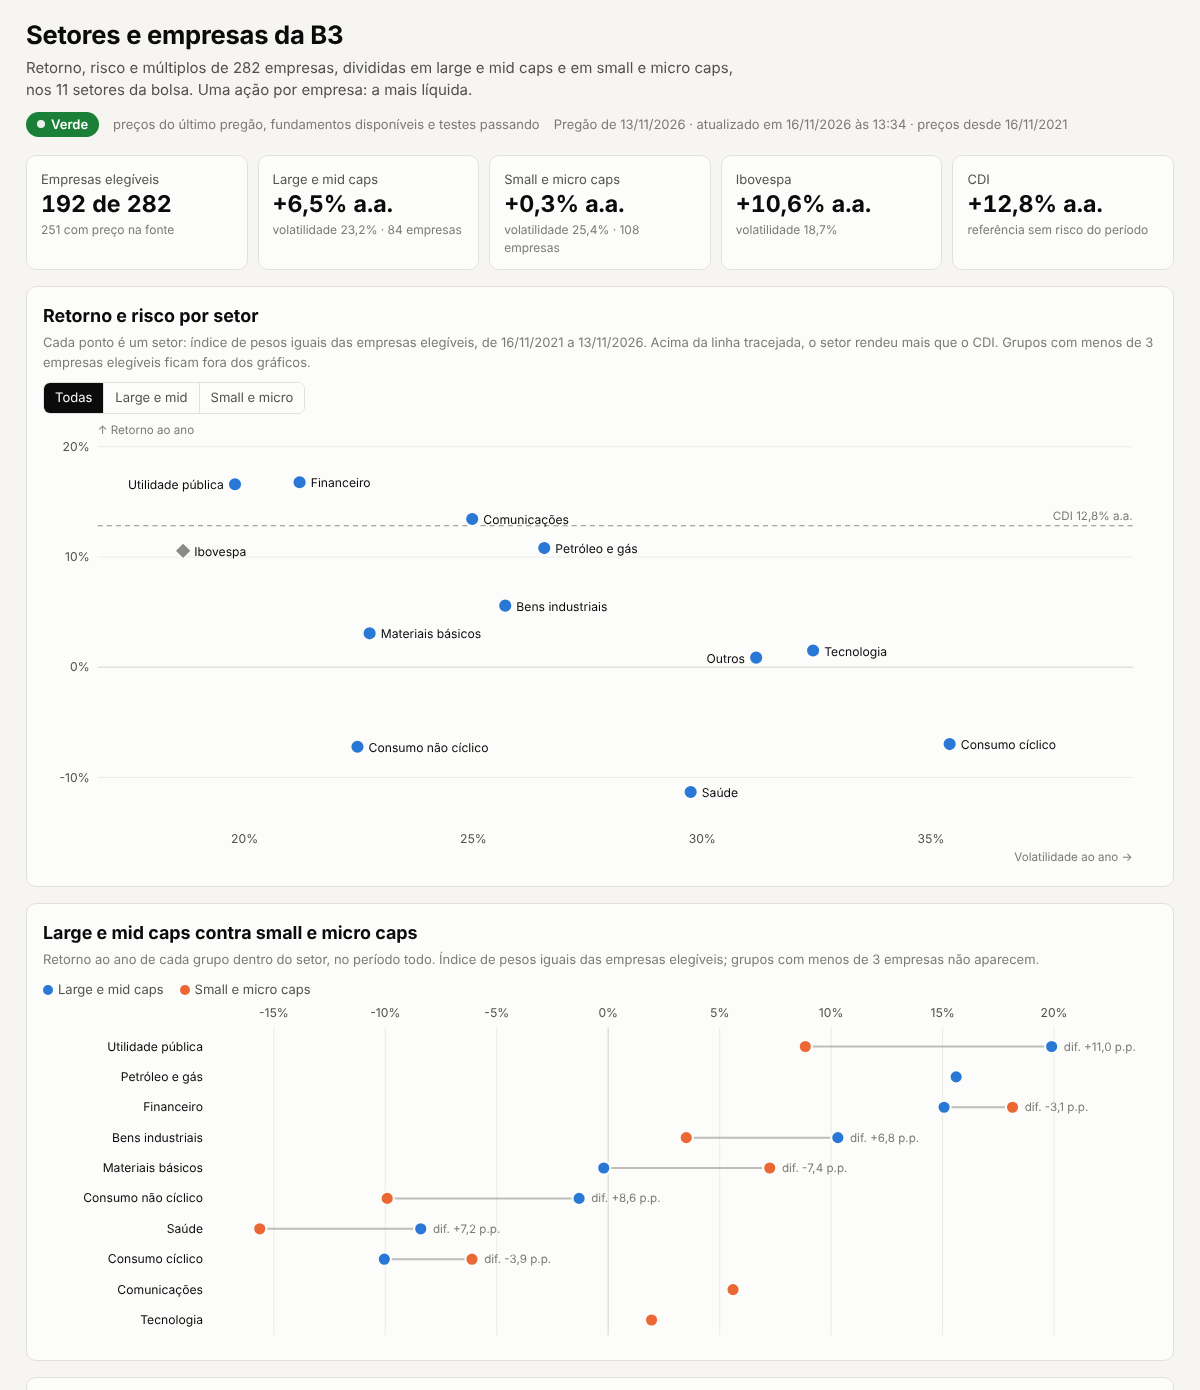
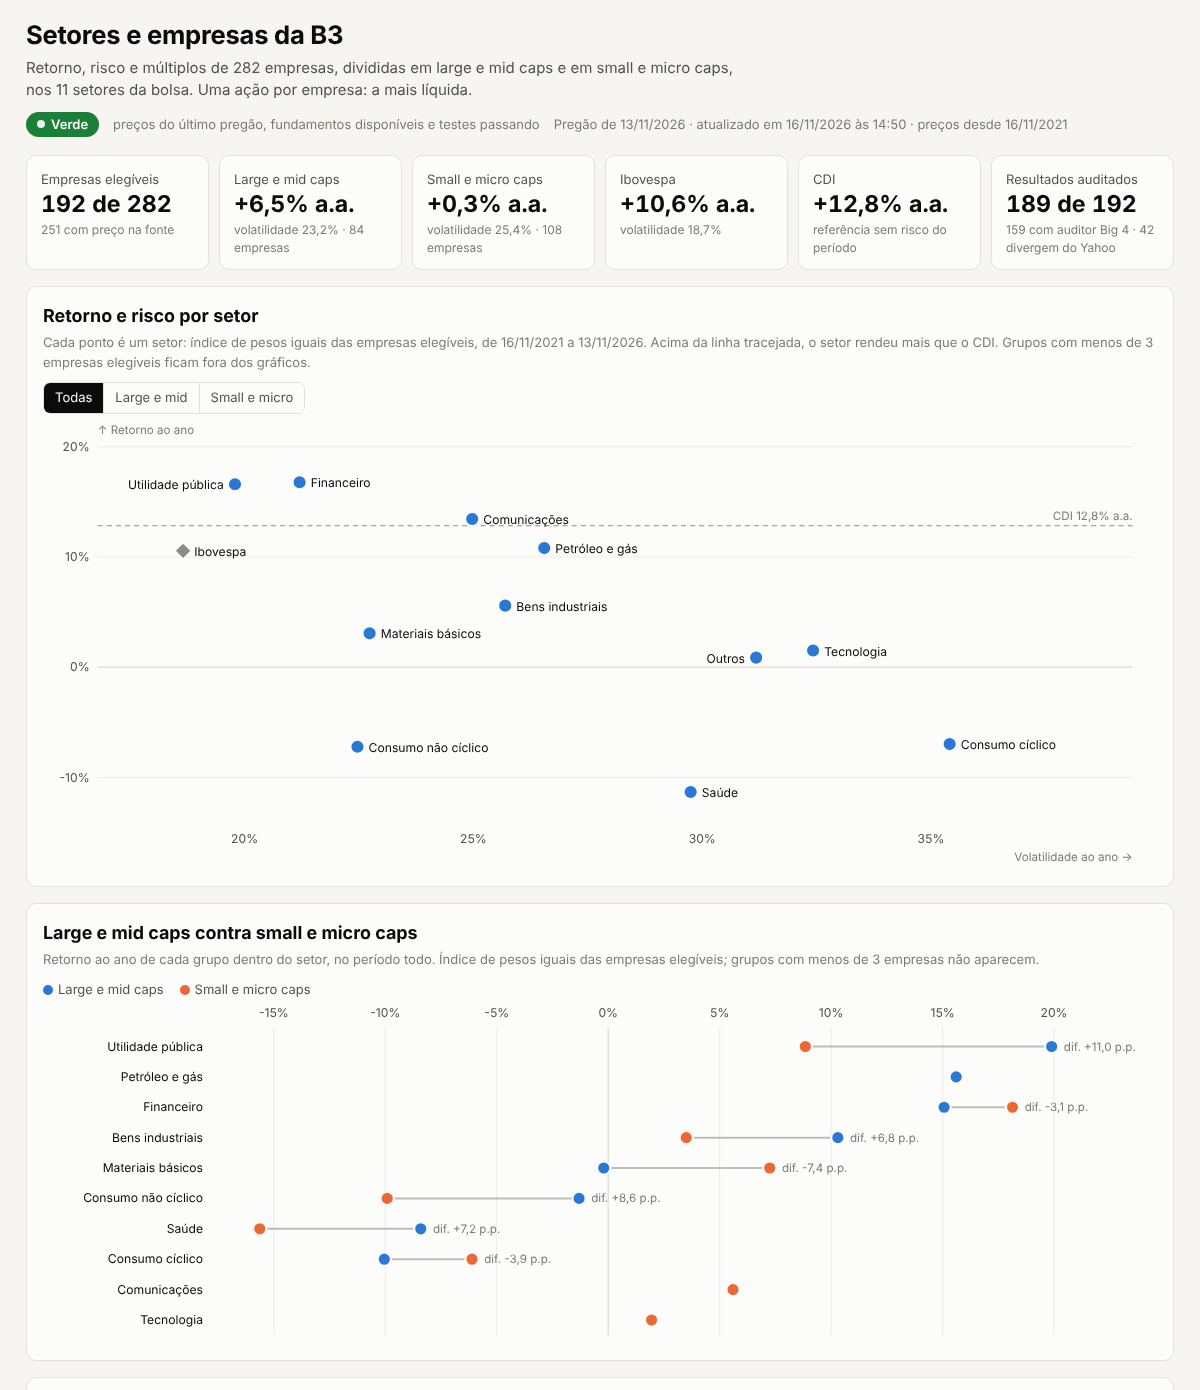
README: base auditada (CVM), auditor e limitações; imagem do painel atualizada
Claude-Session: https://claude.ai/code/session_01Ck4weSLnXm8wxyjEjgHRYT

Changed region(s): [[0.185, 0.1237, 0.9558, 0.1856]]

diff --git a/README.md b/README.md
@@ -3,7 +3,7 @@
 [![Atualização diária](https://github.com/mlsantos92/setores-b3/actions/workflows/atualizar.yml/badge.svg)](https://github.com/mlsantos92/setores-b3/actions/workflows/atualizar.yml)
 **[Ver painel ao vivo](https://mlsantos92.github.io/setores-b3/)** · atualizado em dias úteis às 08h30 e 19h15, com selo de situação.
 
-Estudo de **282 empresas da B3**, divididas em large e mid caps e em small e micro caps, nos 11 setores da bolsa. Para cada empresa e cada setor: retorno em 5 anos, volatilidade, maior queda, Sharpe e múltiplos (P/L, P/VP, EV/EBITDA, dividend yield, ROE).
+Estudo de **282 empresas da B3**, divididas em large e mid caps e em small e micro caps, nos 11 setores da bolsa. Para cada empresa e cada setor: retorno em 5 anos, volatilidade, maior queda, Sharpe e múltiplos (P/L, P/VP, EV/EBITDA, dividend yield, ROE). Os múltiplos partem dos **resultados oficiais protocolados na CVM**, auditados ou revisados por auditor independente.
 
 **Perguntas:** quais setores pagaram o risco que correram? As small caps renderam mais que as grandes? Onde os múltiplos estão acima ou abaixo da mediana do setor?
 
@@ -17,7 +17,8 @@ Estudo de **282 empresas da B3**, divididas em large e mid caps e em small e mic
 - **Só três setores ficaram acima do CDI:** Financeiro (16,8% a.a.), Utilidade Pública (16,6% a.a.) e Comunicações (13,4% a.a.). Os dois primeiros também tiveram a menor volatilidade.
 - **Os piores:** Saúde (−11,3% a.a.), Consumo Não Cíclico (−7,2% a.a.) e Consumo Cíclico (−7,0% a.a.). O Consumo Cíclico teve a maior volatilidade (35,4%).
 - **Tamanho ajudou na maioria dos setores.** As large e mid caps renderam mais que as small e micro caps em 7 dos 11 setores. As exceções: Financeiro, Materiais Básicos, Consumo Cíclico e Tecnologia. Em quatro setores um dos grupos tem menos de 3 empresas elegíveis, então a comparação ali é frágil.
-- **Small caps são mais baratas nos múltiplos, com motivo:** P/L mediano de 6,8 contra 12,0 das grandes e P/VP de 0,90 contra 1,39, com ROE menor (10,9% contra 14,3%).
+- **Small caps são mais baratas nos múltiplos, com motivo:** P/L mediano de 7,7 contra 9,5 das grandes e P/VP de 0,87 contra 1,38, com ROE menor (8,7% contra 12,9%).
+- **Base auditada:** 189 das 192 empresas elegíveis têm os múltiplos calculados das demonstrações protocoladas na CVM. Das 192, 159 são auditadas por uma Big 4. Em 42 empresas o número oficial difere mais de 25% do Yahoo Finance; nas units o Yahoo chega a errar o P/L em várias vezes (BTG Pactual: 13 pela CVM, 86 no Yahoo).
 
 Os números mudam a cada atualização; o painel traz sempre o retrato mais recente.
 
@@ -41,13 +42,21 @@ As 31 empresas sem preço são as que saíram da bolsa (Neoenergia, Santos Brasi
 - **Índice do setor com pesos iguais**, rebalanceado todo dia, só com empresas elegíveis. Não é investível e difere dos índices setoriais da B3, que pesam por valor de mercado. Por isso o estudo mostra a empresa típica do setor, não a maior.
 - **Elegíveis:** negócio em pelo menos 90% dos pregões dos últimos 12 meses e giro mediano de ao menos R$ 100 mil por dia.
 - **Dado suspeito:** alta de mais de 100% ou queda de mais de 80% em um dia costuma ser grupamento ou troca de código que a fonte não ajustou. A empresa aparece na tabela com a marca e fica fora dos agregados.
+- **Resultados oficiais e auditados.** P/L, P/VP, ROE e margem saem das demonstrações que a empresa protocola na CVM, as mesmas do portal de relações com investidores: DFP anual, auditada, e ITR trimestral, revisado pelo auditor independente. O lucro é o dos últimos 12 meses atribuído aos controladores (DFP + acumulado do ano − mesmo período do ano anterior); o patrimônio exclui minoritários.
+- **Auditor de cada empresa**, com marca para as Big 4 (Deloitte, EY, KPMG e PwC) e aviso quando o relatório da última DFP tem ressalva.
+- **Valor de mercado próprio:** ações informadas à CVM, fora a tesouraria, vezes o preço de cada classe. Em units, vale o preço das classes ou o da unit dividido pelas ações que ela representa.
+- **Yahoo como conferência e reserva.** Diferença acima de 25% entre as fontes vira a marca “≠ Yahoo” e vale o número da CVM. Sem dado na CVM (BDRs, por exemplo), vale o Yahoo e o painel avisa. O EV/EBITDA vem do Yahoo.
+- **Resultado atrasado:** empresa sem resultado protocolado há mais de 9 meses fica sem múltiplos.
 - **Múltiplos por mediana**, não por média: um P/L de 130 não distorce o setor. P/L só existe para empresas com lucro; o painel conta quantas têm prejuízo.
 - **Dividend yield calculado aqui:** proventos pagos em 12 meses ÷ preço atual. Acima de 30% é descartado.
 
 ## Limitações
 
 - **Viés de sobrevivência.** A lista foi montada em 2026. Empresas que quebraram ou saíram da bolsa antes não entram, o que melhora o retorno histórico, sobretudo das small caps.
-- **Fonte única e gratuita.** Preços e indicadores vêm do Yahoo Finance. Os múltiplos não foram conferidos contra os demonstrativos da CVM; valores fora de faixas plausíveis são descartados, mas erros dentro da faixa passam.
+- **O que “auditado” cobre.** O estudo usa os números das demonstrações e o nome do auditor informado à CVM. Não lê o texto do parecer nem as notas explicativas, e o ITR tem revisão limitada, não auditoria completa.
+- **Lucro contábil, sem ajustes.** O lucro de 12 meses inclui itens não recorrentes e operações descontinuadas, e fusões recentes (Bradsaúde, MBRF) misturam períodos de empresas diferentes. Os releases de RI costumam mostrar também um lucro ajustado, que não entra aqui.
+- **Quantidade de ações sem escala.** A CVM não informa se o número está em unidades ou em milhares; a escala é decidida por comparação com o valor de mercado do Yahoo. Empresas com classes de ações de direitos econômicos diferentes ficam com o valor de mercado do Yahoo.
+- **Preços de fonte única.** Cotações e proventos vêm do Yahoo Finance.
 - **Setores pequenos.** Comunicações, Tecnologia e Outros têm poucas empresas elegíveis. Grupos com menos de 3 empresas ficam fora dos gráficos.
 - **Feriados locais.** O calendário desconta feriados nacionais. Em feriado só da B3, o selo pode ficar amarelo por um dia.
 - **Classificação dos setores** é a da lista original, sem revisão.
@@ -57,15 +66,16 @@ As 31 empresas sem preço são as que saíram da bolsa (Neoenergia, Santos Brasi
 | Etapa | Onde |
 |---|---|
 | Universo e ajustes de código | `data/raw/`, `src/setores_b3/universo.py` |
-| Coleta (Yahoo Finance e CDI do Banco Central) | `src/setores_b3/coleta.py` |
+| Coleta de preços (Yahoo Finance) e do CDI (Banco Central) | `src/setores_b3/coleta.py` |
+| Resultados oficiais, capital e auditor (CVM: DFP, ITR e FCA) | `src/setores_b3/cvm.py` |
 | Retorno, volatilidade, maior queda, Sharpe, índice de pesos iguais | `src/setores_b3/metricas.py` |
-| Limpeza dos múltiplos e mediana do setor | `src/setores_b3/multiplos.py` |
+| Múltiplos, conferência entre fontes e mediana do setor | `src/setores_b3/multiplos.py` |
 | Escolha do código, elegibilidade e agregados | `src/setores_b3/estudo.py` |
 | Calendário de pregões e selo de situação | `src/setores_b3/calendario.py`, `src/setores_b3/selo.py` |
 | Painel estático | `docs/index.html`, que lê `docs/dados.json` |
 | Atualização diária | `.github/workflows/atualizar.yml` |
 
-Só o módulo de coleta fala com a rede. Os cálculos recebem tabelas prontas, o que permite testar tudo sem internet: são 25 testes com dados sintéticos (`pytest`).
+Só os módulos de coleta falam com a rede. Os cálculos recebem tabelas prontas, o que permite testar tudo sem internet: são 40 testes com dados sintéticos (`pytest`), incluindo demonstrações fictícias no formato da CVM.
 
 **Selo:** verde quando pelo menos 95% das large e mid caps têm preço do último pregão fechado, há fundamentos para 80% das elegíveis e os testes passam. Amarelo quando algum desses pontos falha. Vermelho quando a coleta ou os testes quebram.
 
@@ -78,7 +88,7 @@ python -m venv .venv && source .venv/bin/activate   # Windows: .venv\Scripts\act
 pip install -r requirements.txt
 
 pytest -q                          # testes, sem internet
-TESTES_OK=1 python scripts/atualizar.py   # coleta e gera docs/dados.json (uns 3 minutos)
+TESTES_OK=1 python scripts/atualizar.py   # coleta e gera docs/dados.json (uns 4 minutos)
 python -m http.server -d docs 8000        # painel em http://localhost:8000
 ```
 
